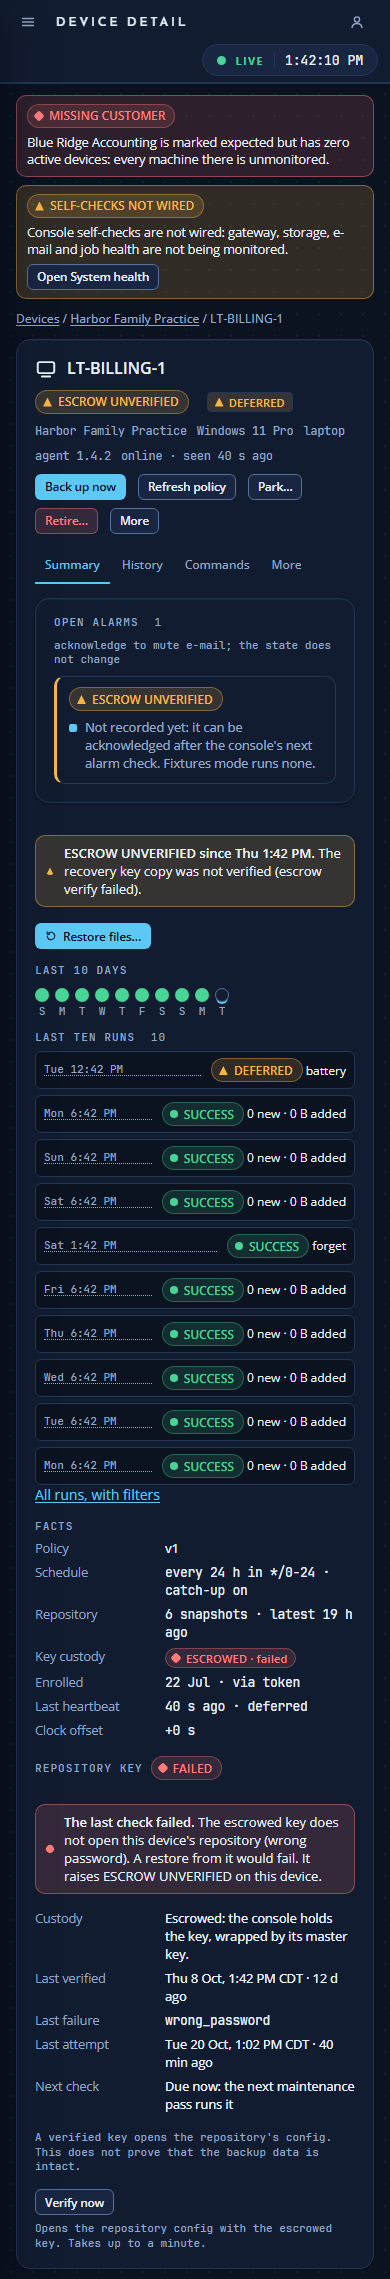
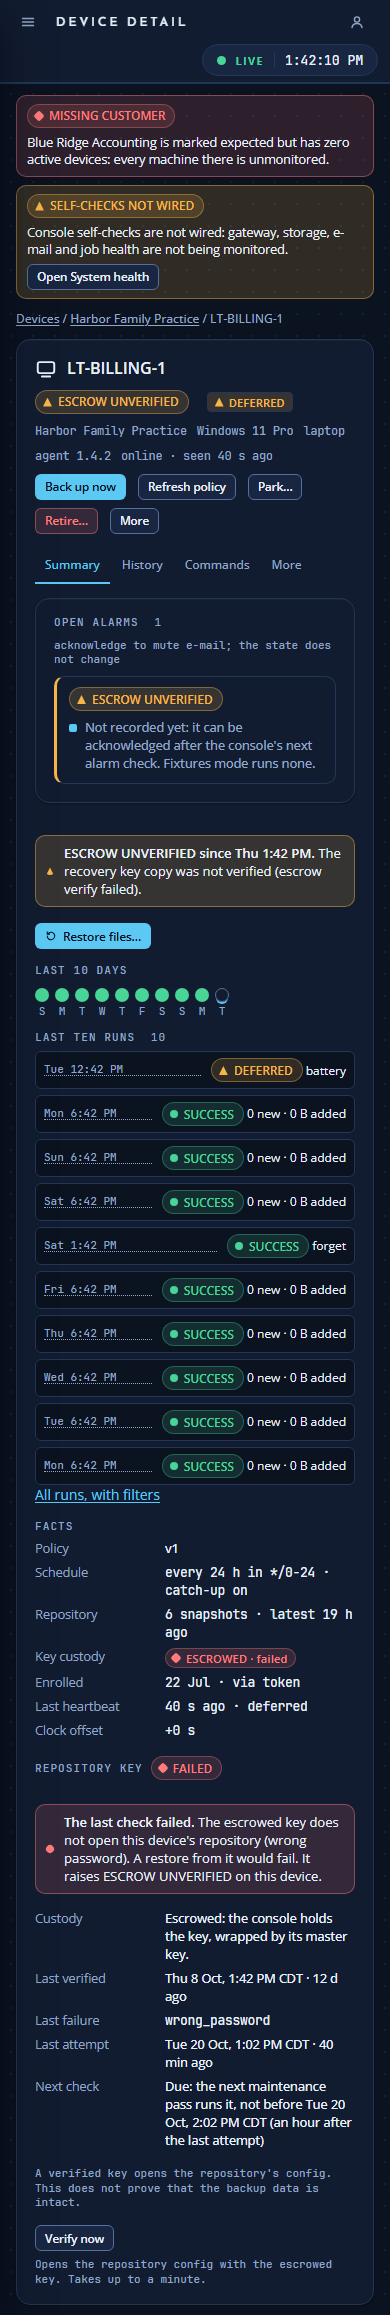
P22-I fix batch 1: verdict flash bound to its device; htmx verify redraws the page; lead and next-check wording
- I1: the Verify now flash token covers the device id; a device page shows only a flash made for it.
- I2: an htmx verdict answers HX-Redirect to the same URL a browser post gets, so the Facts chip,
  alarms and header chips are redrawn with the panel; refusals still answer the panel with 200.
- I3: base.html comment (.Drill is a field); no "press Verify now" where the button is hidden and no
  lead on unconfirmed or purging devices; "Next check" honours the one-hour retry hold.

diff --git a/web/templates/base.html b/web/templates/base.html
@@ -3,8 +3,8 @@
      fonts, tokens, css and scripts come from /static, nothing from a CDN. */}}
 {{/* drill_banner - the DRILL COPY strip (ADR 0029, ruling C8): on every page of a drill copy, above the
      topbar here and at the top of the three bare pages (login, login_reset, mfa). It has no close button
-     and is not part of the live-refreshed banner region, so nothing removes it. .Drill is a method of the
-     page data (ui/views.go). */}}
+     and is not part of the live-refreshed banner region, so nothing removes it. .Drill is a field of the
+     page data, set from ui.Service.Drill (ui/views.go, ui/ui.go). */}}
 {{define "drill_banner"}}{{if .Drill}}<div class="banner crit drill-copy" id="drill-copy" role="alert"><i class="g g-crit" aria-hidden="true"></i><div class="b-text"><b>DRILL COPY: this console is a restored copy. It does not talk to agents, send mail or change storage.</b></div></div>{{end}}{{end}}
 {{define "base"}}<!doctype html>
 <html lang="en">

diff --git a/internal/console/ui/devicepanel_escrow.go b/internal/console/ui/devicepanel_escrow.go
@@ -182,6 +182,11 @@ func (s *Service) escrowPanel(ctx context.Context, p *auth.Principal, id string,
 	}
 	kind, class := escrowAssess(esc, c.Now)
 	pn.State = kind
+	// The sentences below offer Verify now only when the button is there (the gate at the end of this function).
+	askNow := ""
+	if !t.Purging && t.Confirmed && p.Role >= auth.RoleAdmin && s.MasterLoaded != nil && s.MasterLoaded() && s.Backend != nil {
+		askNow = " Or press Verify now."
+	}
 	stamp := func(at time.Time) string {
 		return c.dayClock(at) + " " + c.zoneAbbr(at) + " · " + ageLong(c.Now.Sub(at))
 	}
@@ -191,11 +196,11 @@ func (s *Service) escrowPanel(ctx context.Context, p *auth.Principal, id string,
 	case escOverdue:
 		pn.Chip = chip("OVERDUE", ageShort(c.Now.Sub(*esc.VerifiedAt)), class)
 		pn.Lead = &CauseView{Class: class, Title: "The weekly check has not run.",
-			Text: "The newest proof is " + strconv.Itoa(int(c.Now.Sub(*esc.VerifiedAt)/(24*time.Hour))) + " days old. Check that the maintenance worker is running (banner C07), or press Verify now."}
+			Text: "The newest proof is " + strconv.Itoa(int(c.Now.Sub(*esc.VerifiedAt)/(24*time.Hour))) + " days old. Check that the maintenance worker is running (banner C07)." + askNow}
 	case escNever:
 		pn.Chip = chip("NEVER VERIFIED", "", class)
 		pn.Lead = &CauseView{Class: class, Title: "This key has never been verified.",
-			Text: "Until it is, nobody knows that a restore from it would work. The next maintenance pass checks it, or press Verify now."}
+			Text: "Until it is, nobody knows that a restore from it would work. The next maintenance pass checks it." + askNow}
 	case escFailed:
 		pn.Chip = chip("FAILED", "", class)
 		lead := escrowFailureText(esc.LastVerifyErrorClass)
@@ -225,7 +230,7 @@ func (s *Service) escrowPanel(ctx context.Context, p *auth.Principal, id string,
 		}
 		pn.Rows = append(pn.Rows, Fact{Key: "Last attempt", Value: v})
 	}
-	pn.Rows = append(pn.Rows, Fact{Key: "Next check", Value: escrowNextCheck(esc.VerifiedAt, c)})
+	pn.Rows = append(pn.Rows, Fact{Key: "Next check", Value: escrowNextCheck(esc.VerifiedAt, esc.LastVerifyAttemptAt, c)})
 
 	switch {
 	case t.Purging:
@@ -243,17 +248,39 @@ func (s *Service) escrowPanel(ctx context.Context, p *auth.Principal, id string,
 	default:
 		pn.CanVerify = true
 	}
+	if t.Purging || !t.Confirmed { // no repository to open, or one going away: the reason below says it, a lead would only mislead
+		pn.Lead = nil
+	}
 	return pn
 }
 
+// escrowRetryHold is how long the verifier leaves a key alone after any attempt, whatever its
+// outcome. It is maintain.escrowVerifyRetry (unexported there, and maintain is not this ticket's to
+// change): keep the two equal.
+const escrowRetryHold = time.Hour
+
 // escrowNextCheck words when the verifier checks the key next: weekly, up to a day sooner (its
-// stagger), and at the next pass once it is due. A key never proven is retried every hour.
-func escrowNextCheck(verified *time.Time, c fmtCtx) string {
+// stagger), at the next pass once it is due, and never within escrowRetryHold of an attempt. A key
+// never proven is retried every hour.
+func escrowNextCheck(verified, attempt *time.Time, c fmtCtx) string {
+	hold := time.Time{}
+	if attempt != nil && c.Now.Before(attempt.Add(escrowRetryHold)) {
+		hold = attempt.Add(escrowRetryHold)
+	}
+	heldUntil := func(what string) string {
+		return what + ", not before " + c.dayClock(hold) + " " + c.zoneAbbr(hold) + " (an hour after the last attempt)"
+	}
 	if verified == nil {
+		if !hold.IsZero() {
+			return heldUntil("At the next maintenance pass") + ", then every hour until it passes"
+		}
 		return "At the next maintenance pass, then every hour until it passes"
 	}
 	due := verified.Add(state.EscrowVerifyEvery)
 	if !c.Now.Before(due.Add(-24 * time.Hour)) {
+		if !hold.IsZero() {
+			return heldUntil("Due: the next maintenance pass runs it")
+		}
 		return "Due now: the next maintenance pass runs it"
 	}
 	return "By " + c.dayClock(due) + " " + c.zoneAbbr(due) + " (weekly, up to a day sooner)"
@@ -331,8 +358,8 @@ var classWordRE = regexp.MustCompile(`^[a-z_]{1,32}$`)
 
 var escrowFlashRE = regexp.MustCompile(`^(verified|failed|not_verified)(\.[a-z_]{1,32})?$`)
 
-func (s *Service) escrowFlashToken(p *auth.Principal, res escrowResult) string {
-	name := "escrow:" + res.Verdict
+func (s *Service) escrowFlashToken(p *auth.Principal, deviceID string, res escrowResult) string {
+	name := "escrow:" + deviceID + ":" + res.Verdict
 	if res.Class != "" {
 		name += "." + res.Class
 	}
@@ -340,13 +367,15 @@ func (s *Service) escrowFlashToken(p *auth.Principal, res escrowResult) string {
 	return url.QueryEscape(name + "~" + strconv.FormatInt(exp, 10) + "~" + s.flashMAC(p, name, exp))
 }
 
-// escrowFlash is the verdict banner of a verified token, else nil.
-func (s *Service) escrowFlash(p *auth.Principal, token string) *CauseView {
+// escrowFlash is the verdict banner of a verified token made for device deviceID, else nil: the
+// device id is in the name the MAC covers, and the page shows only a token that names its own
+// device, so one device's verdict never reads as another's.
+func (s *Service) escrowFlash(p *auth.Principal, deviceID, token string) *CauseView {
 	parts := strings.Split(token, "~")
-	if len(parts) != 3 || !strings.HasPrefix(parts[0], "escrow:") {
+	if len(parts) != 3 || deviceID == "" || !strings.HasPrefix(parts[0], "escrow:"+deviceID+":") {
 		return nil
 	}
-	word, ok := strings.CutPrefix(parts[0], "escrow:")
+	word, ok := strings.CutPrefix(parts[0], "escrow:"+deviceID+":")
 	if !ok || !escrowFlashRE.MatchString(word) {
 		return nil
 	}
@@ -388,14 +417,22 @@ func (s *Service) escrowVerifyPost(w http.ResponseWriter, r *http.Request) {
 		return
 	}
 	if r.Header.Get("HX-Request") == "true" {
-		// htmx swaps no 4xx: the panel, with the outcome in it, answers 200 whatever happened.
+		// A verdict changed what the rest of the page shows (the Facts chip, the alarms, the header chips):
+		// htmx follows the same redirect a browser post gets, so the whole page is redrawn with the verdict
+		// banner and nothing on it contradicts the panel.
+		if res.Verdict != "" && res.Status == http.StatusOK {
+			w.Header().Set("HX-Redirect", "/devices/"+id+"?escrow="+s.escrowFlashToken(p, id, res)+"#escrow-panel")
+			w.WriteHeader(http.StatusOK)
+			return
+		}
+		// htmx swaps no 4xx: a refusal changed nothing, so the panel, with the sentence in it, answers 200.
 		pn := s.escrowPanel(r.Context(), p, id, s.fc(r.Context()))
 		pn.Result = &res.View
 		s.render(w, r, http.StatusOK, "device", "escrow_panel", pn)
 		return
 	}
 	if res.Verdict != "" && res.Status == http.StatusOK {
-		http.Redirect(w, r, "/devices/"+id+"?escrow="+s.escrowFlashToken(p, res)+"#escrow-panel", http.StatusSeeOther)
+		http.Redirect(w, r, "/devices/"+id+"?escrow="+s.escrowFlashToken(p, id, res)+"#escrow-panel", http.StatusSeeOther)
 		return
 	}
 	s.devicePanelAt(w, r, "", res.Status, &res.View)

diff --git a/internal/console/ui/devicepanel_escrow_p22i_test.go b/internal/console/ui/devicepanel_escrow_p22i_test.go
@@ -184,7 +184,7 @@ func TestP22I_VerifyNowRecordsAVerdictAndShowsIt(t *testing.T) {
 		}
 	}
 	// A token made for one verdict does not show another: the verdict word is under the MAC.
-	swapped := strings.Replace(loc, "escrow%3Averified", "escrow%3Afailed.wrong_password", 1)
+	swapped := strings.Replace(loc, "%3Averified", "%3Afailed.wrong_password", 1)
 	if swapped == loc {
 		t.Fatalf("the flash is not in the expected form: %q", loc)
 	}
@@ -375,20 +375,111 @@ func TestP22I_VerifyNowAuditRefusedIsNotRecorded(t *testing.T) {
 	}
 }
 
-func TestP22I_VerifyNowHTMXAnswersThePanelWithTheVerdict(t *testing.T) {
+func TestP22I_VerifyNowHTMXRedrawsTheWholePageWithTheVerdict(t *testing.T) {
 	t.Parallel()
 	e := newEnv(t)
 	e.login()
 	e.seedEscrow(t)
-	id := e.escrowDev(t, "retired") // a retired device is verified like any other
-	res, frag := e.verifyPost(id, true)
-	if res.StatusCode != 200 {
-		t.Fatalf("%d", res.StatusCode)
+	id := e.escrowDev(t, "stale") // overdue, so the Facts chip and the panel must both change
+	if before := e.page("/devices/"+id, 200); !strings.Contains(before, "verified 10 d ago, overdue") {
+		t.Fatal("setup: the Facts chip is not overdue")
 	}
-	mustContainText(t, "htmx verdict", frag, `<section id="escrow-panel"`, "Verified.", `data-escrow="verified"`, "This device is retired.", verifyAction(id), `hx-post="/ui/devices/`+id+`/escrow/verify"`, `hx-target="#escrow-panel"`)
+	res, frag := e.verifyPost(id, true)
+	loc := res.Header.Get("HX-Redirect")
+	if res.StatusCode != 200 || !strings.HasPrefix(loc, "/devices/"+id+"?escrow=") || !strings.HasSuffix(loc, "#escrow-panel") || strings.TrimSpace(frag) != "" {
+		t.Fatalf("htmx verdict: %d HX-Redirect %q body %.80q, want 200 with the redirect a browser post gets", res.StatusCode, loc, frag)
+	}
+	page := e.page(strings.SplitN(loc, "#", 2)[0], 200)
+	mustContainText(t, "after htmx verify", page, "Verified.", `data-escrow="verified"`, "Key custody", "verified 0 s ago")
+	if strings.Contains(page, ", overdue") || strings.Contains(page, "OVERDUE") || strings.Contains(page, "The weekly check has not run.") {
+		t.Error("the page still says the key is overdue after a pass: it contradicts itself")
+	}
 	if n := len(e.auditRows("device.escrow.verify", id)); n != 1 {
 		t.Errorf("%d audit rows, want 1", n)
 	}
+	// A retired device is verified like any other, htmx or not.
+	rid := e.escrowDev(t, "retired")
+	if res, _ := e.verifyPost(rid, true); res.Header.Get("HX-Redirect") == "" {
+		t.Errorf("retired htmx verify: no redirect (%d)", res.StatusCode)
+	}
+	// The htmx form still posts to its own action, targets the panel and works without JS.
+	panel := e.page("/devices/"+e.escrowDev(t, "never"), 200)
+	mustContainText(t, "form", panel, `hx-post="/ui/devices/`+e.escrowDev(t, "never")+`/escrow/verify"`, `hx-target="#escrow-panel"`, `method="post"`)
+}
+
+func TestP22I_VerdictFlashIsBoundToItsDevice(t *testing.T) {
+	t.Parallel()
+	e := newEnv(t)
+	e.login()
+	e.seedEscrow(t)
+	a, b := e.escrowDev(t, "stale"), e.escrowDev(t, "never")
+	res, _ := e.verifyPost(a, false)
+	loc := e.location(res)
+	_, tok, ok := strings.Cut(strings.SplitN(loc, "#", 2)[0], "?escrow=")
+	if !ok {
+		t.Fatalf("no flash in %q", loc)
+	}
+	const shown = "just now. It was recorded"
+	if body := e.page("/devices/"+a+"?escrow="+tok, 200); !strings.Contains(body, shown) {
+		t.Fatal("device A does not show its own verdict")
+	}
+	// Device B, same admin session, inside the TTL: A's verdict is not B's.
+	body := e.page("/devices/"+b+"?escrow="+tok, 200)
+	if strings.Contains(body, shown) || strings.Contains(body, "Verified.") {
+		t.Error("A's verdict shows on never-verified device B")
+	}
+	mustContainText(t, "device B", body, "NEVER VERIFIED")
+	// A still shows it; after the TTL nobody does.
+	if body := e.page("/devices/"+a+"?escrow="+tok, 200); !strings.Contains(body, shown) {
+		t.Error("A lost its verdict")
+	}
+	e.advance(flashTTL + time.Second)
+	if body := e.page("/devices/"+a+"?escrow="+tok, 200); strings.Contains(body, shown) {
+		t.Error("an expired flash still shows")
+	}
+}
+
+func TestP22I_LeadsOfferVerifyNowOnlyWhenTheButtonIsThere(t *testing.T) {
+	t.Parallel()
+	e := newEnv(t)
+	e.login()
+	e.seedEscrow(t)
+	never := e.page("/devices/"+e.escrowDev(t, "never"), 200)
+	mustContainText(t, "admin, never", never, "This key has never been verified.", "Or press Verify now.", verifyButton)
+	// A device whose enrollment was never confirmed has no repository: no lead, no button, no promise of one.
+	// (The fixture KIOSK-WAIT-01 is unconfirmed; give it a never-verified key.)
+	unc := e.page("/devices/"+e.escrowDev(t, "unconfirmed"), 200)
+	if strings.Contains(unc, "press Verify now") || strings.Contains(unc, verifyButton) || strings.Contains(unc, "This key has never been verified.") {
+		t.Error("an unconfirmed device is offered a check")
+	}
+	mustContainText(t, "unconfirmed", unc, "The device has not confirmed its enrollment")
+	e.addAccount("ops2", "operator")
+	e.loginAs("ops2", testPassword)
+	op := e.page("/devices/"+e.escrowDev(t, "stale"), 200)
+	mustContainText(t, "operator, overdue", op, "The weekly check has not run.", "Verify now needs the admin role.")
+	if strings.Contains(op, "press Verify now") {
+		t.Error("an operator is told to press a button it does not have")
+	}
+}
+
+func TestP22I_NextCheckHonoursTheRetryHold(t *testing.T) {
+	t.Parallel()
+	e := newEnv(t)
+	e.login()
+	e.seedEscrow(t)
+	// "failed": proven 12 d ago, attempted 40 min ago: due, but held until an hour after the attempt.
+	body := e.page("/devices/"+e.escrowDev(t, "failed"), 200)
+	mustContainText(t, "held", body, "Next check", "Due: the next maintenance pass runs it, not before", "(an hour after the last attempt)")
+	// "stale": attempted 3 h ago: no hold.
+	body = e.page("/devices/"+e.escrowDev(t, "stale"), 200)
+	mustContainText(t, "not held", body, "Due now: the next maintenance pass runs it")
+	if strings.Contains(body, "an hour after the last attempt") {
+		t.Error("a hold shows for an attempt made 3 hours ago")
+	}
+	// After the hour has passed the hold is gone.
+	e.advance(30 * time.Minute)
+	body = e.page("/devices/"+e.escrowDev(t, "failed"), 200)
+	mustContainText(t, "hold over", body, "Due now: the next maintenance pass runs it")
 }
 
 func TestP22I_VerifyNowNeedsTheCSRFTokenAndThePageOrigin(t *testing.T) {

diff --git a/internal/console/ui/devicepanel.go b/internal/console/ui/devicepanel.go
@@ -503,7 +503,7 @@ func (s *Service) devicePanelAt(w http.ResponseWriter, r *http.Request, tab stri
 		pg.Escrow = s.escrowPanel(r.Context(), p, id, c)
 		pg.Escrow.Result = escrowResult
 		if escrowResult == nil {
-			pg.Escrow.Result = s.escrowFlash(p, r.URL.Query().Get("escrow"))
+			pg.Escrow.Result = s.escrowFlash(p, id, r.URL.Query().Get("escrow"))
 		}
 	}
 	if ds, ok := deviceState(fleet, id); ok { // M2-W2C: the action menu on every tab
